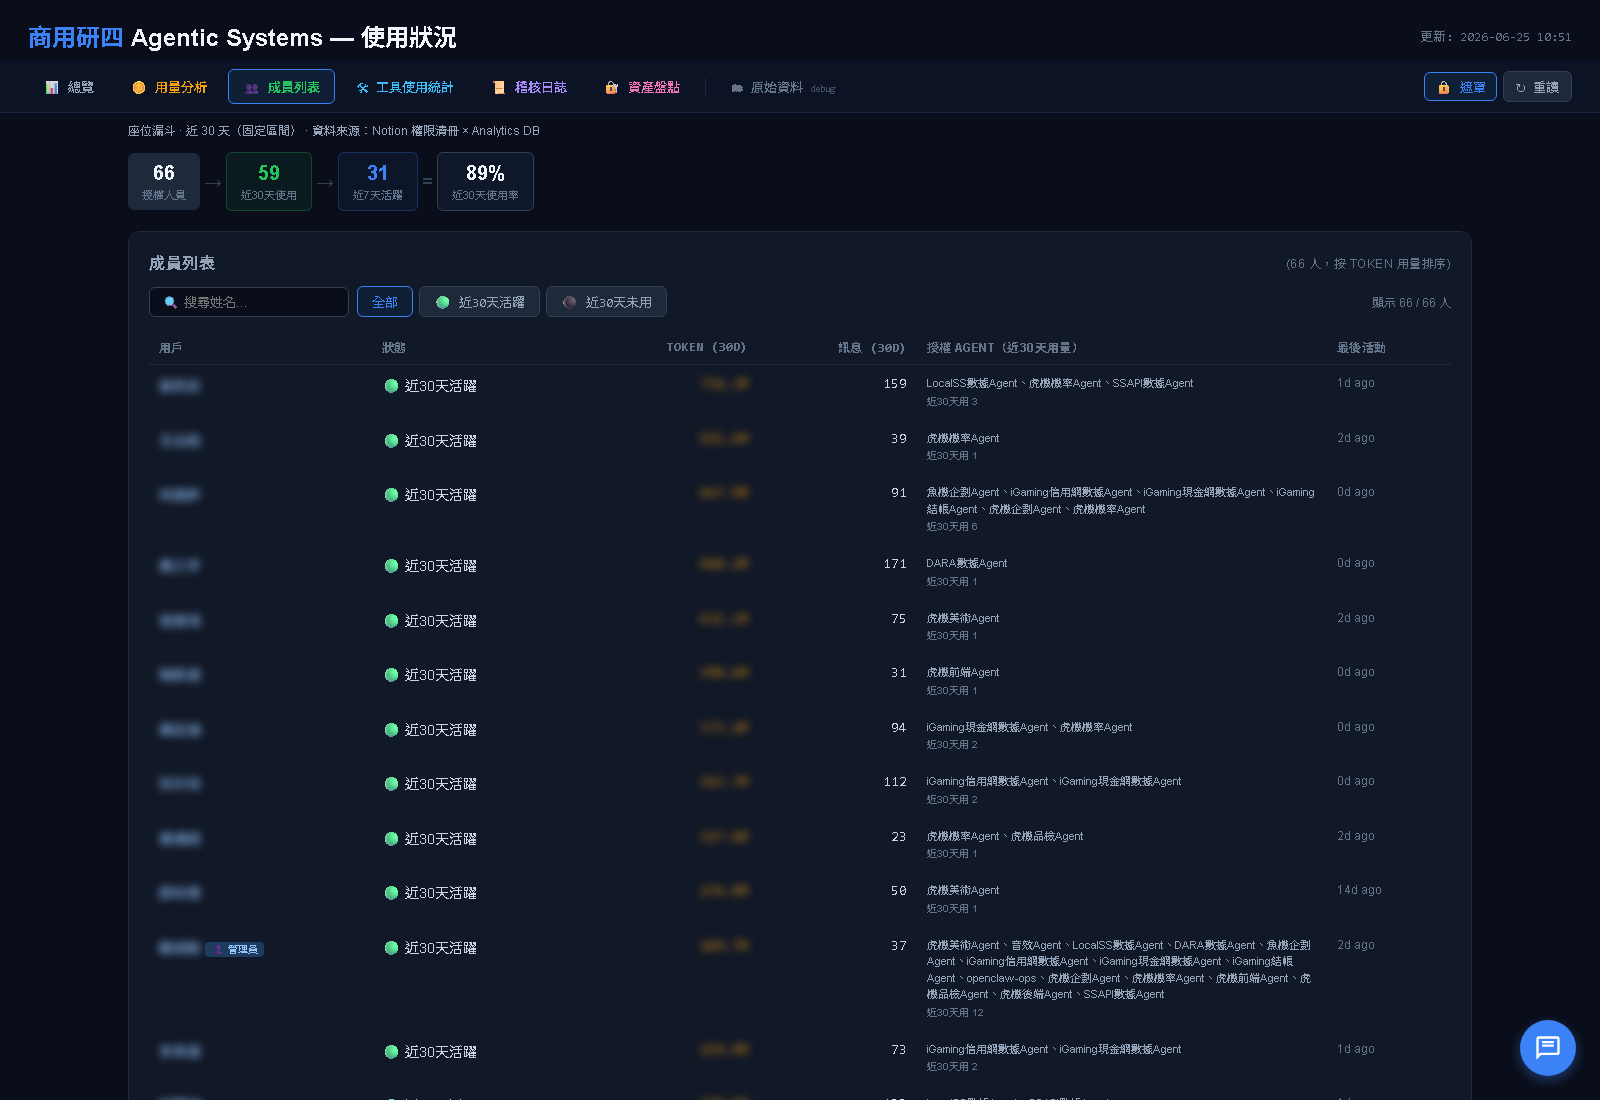
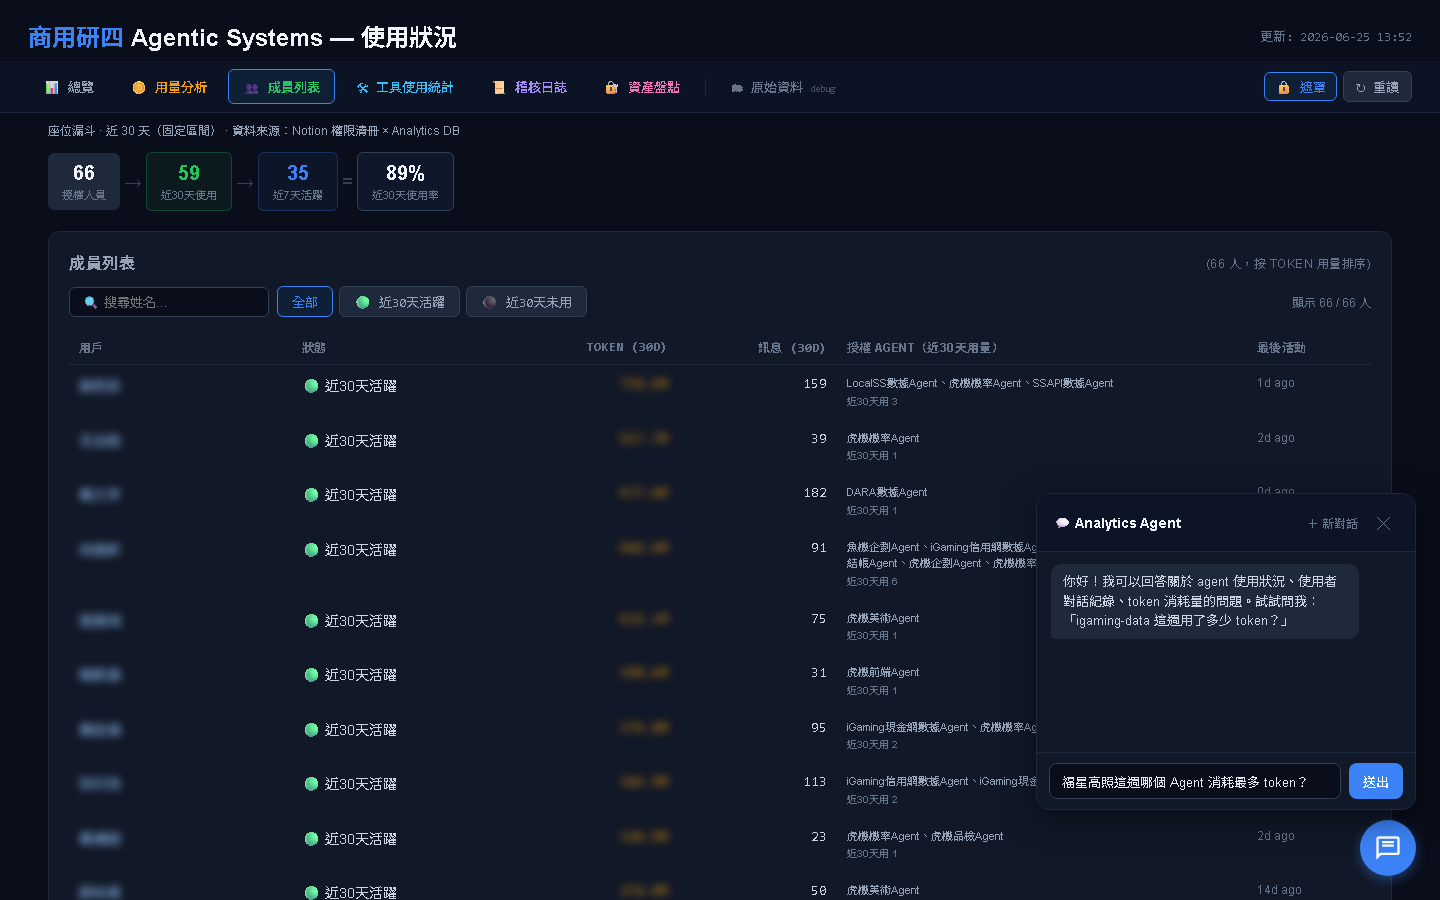
實證②(多Agent評估:不分頁改瘦身)：左圖換成AI對話開啟的情境截圖；3卡能力面板濃縮為一行；移除重複結語 → 該頁818→500px,所有螢幕免捲不裁切

diff --git a/index.html b/index.html
@@ -316,16 +316,9 @@ h2{font-size:clamp(1.8rem,3.3vw,3rem);font-weight:900;line-height:1.2;letter-spa
       </a>
     </div>
   </div>
-  <div class="a panel panel-c" style="padding:.8rem .9rem">
-    <div class="panel-title" style="color:var(--cyan);font-size:.95rem">&#128172; 不只看得到，還能「問」 —— 使用治理儀表板內建 AI 對話查詢</div>
-    <div class="a g3" style="gap:.5rem;margin-top:.45rem">
-      <div class="panel" style="padding:.6rem .7rem;border-left:3px solid var(--cyan)"><div style="font-weight:800;font-size:.85rem;color:var(--cyan)">&#128202; Agent 效能與成本</div><div class="panel-body" style="font-size:.76rem;margin-top:.25rem;line-height:1.5">各 Agent 的 Token 消耗、Session 數；近 7／30 天趨勢，揪出高成本／高頻 Agent；可查特定 Agent 最近對話與回應品質。</div></div>
-      <div class="panel" style="padding:.6rem .7rem;border-left:3px solid var(--lime)"><div style="font-weight:800;font-size:.85rem;color:var(--lime)">&#128100; 使用者行為洞察</div><div class="panel-body" style="font-size:.76rem;margin-top:.25rem;line-height:1.5">最活躍使用者及其常用 Agent；特定使用者歷史對話與互動頻率；偏好功能類別（數據查詢／繪圖／規劃…）。</div></div>
-      <div class="panel" style="padding:.6rem .7rem;border-left:3px solid var(--amber)"><div style="font-weight:800;font-size:.85rem;color:var(--amber)">&#127760; 系統整體統計</div><div class="panel-body" style="font-size:.76rem;margin-top:.25rem;line-height:1.5">總訊息量、活躍使用者數、活躍 Agent 數概覽；協助監控系統負載與使用熱度。</div></div>
-    </div>
-    <div class="panel-body" style="font-size:.75rem;color:var(--dim);margin-top:.45rem;line-height:1.5">&#128161; 直接用自然語言問，例如：「福星高照這週哪個 Agent 消耗最多 Token？」「虎機美術 Agent 近 30 天被呼叫幾次？」「列出本競賽 6 個 Agent 的工具呼叫次數排名」</div>
+  <div class="a panel panel-c" style="padding:.75rem .95rem">
+    <div class="panel-body" style="font-size:.85rem;line-height:1.65">&#128172; <strong class="accent-c">不只看得到，還能「問」</strong>：使用治理儀表板內建 <strong>AI 對話查詢</strong>（見左下圖），用自然語言即可問 <strong class="accent-c">Agent 效能與成本</strong>、<strong class="accent-l">使用者行為</strong>、<strong class="accent-a">系統整體統計</strong> —— 例：「福星高照這週哪個 Agent 消耗最多 Token？」「列出 6 個 Agent 的工具呼叫排名」</div>
   </div>
-  <div class="a" style="font-size:.8rem;color:var(--dim);text-align:center">一個看「Agent 在做什麼」、一個看「系統健不健康」 —— 治理層實際落地</div>
 </div>
 </section>
 